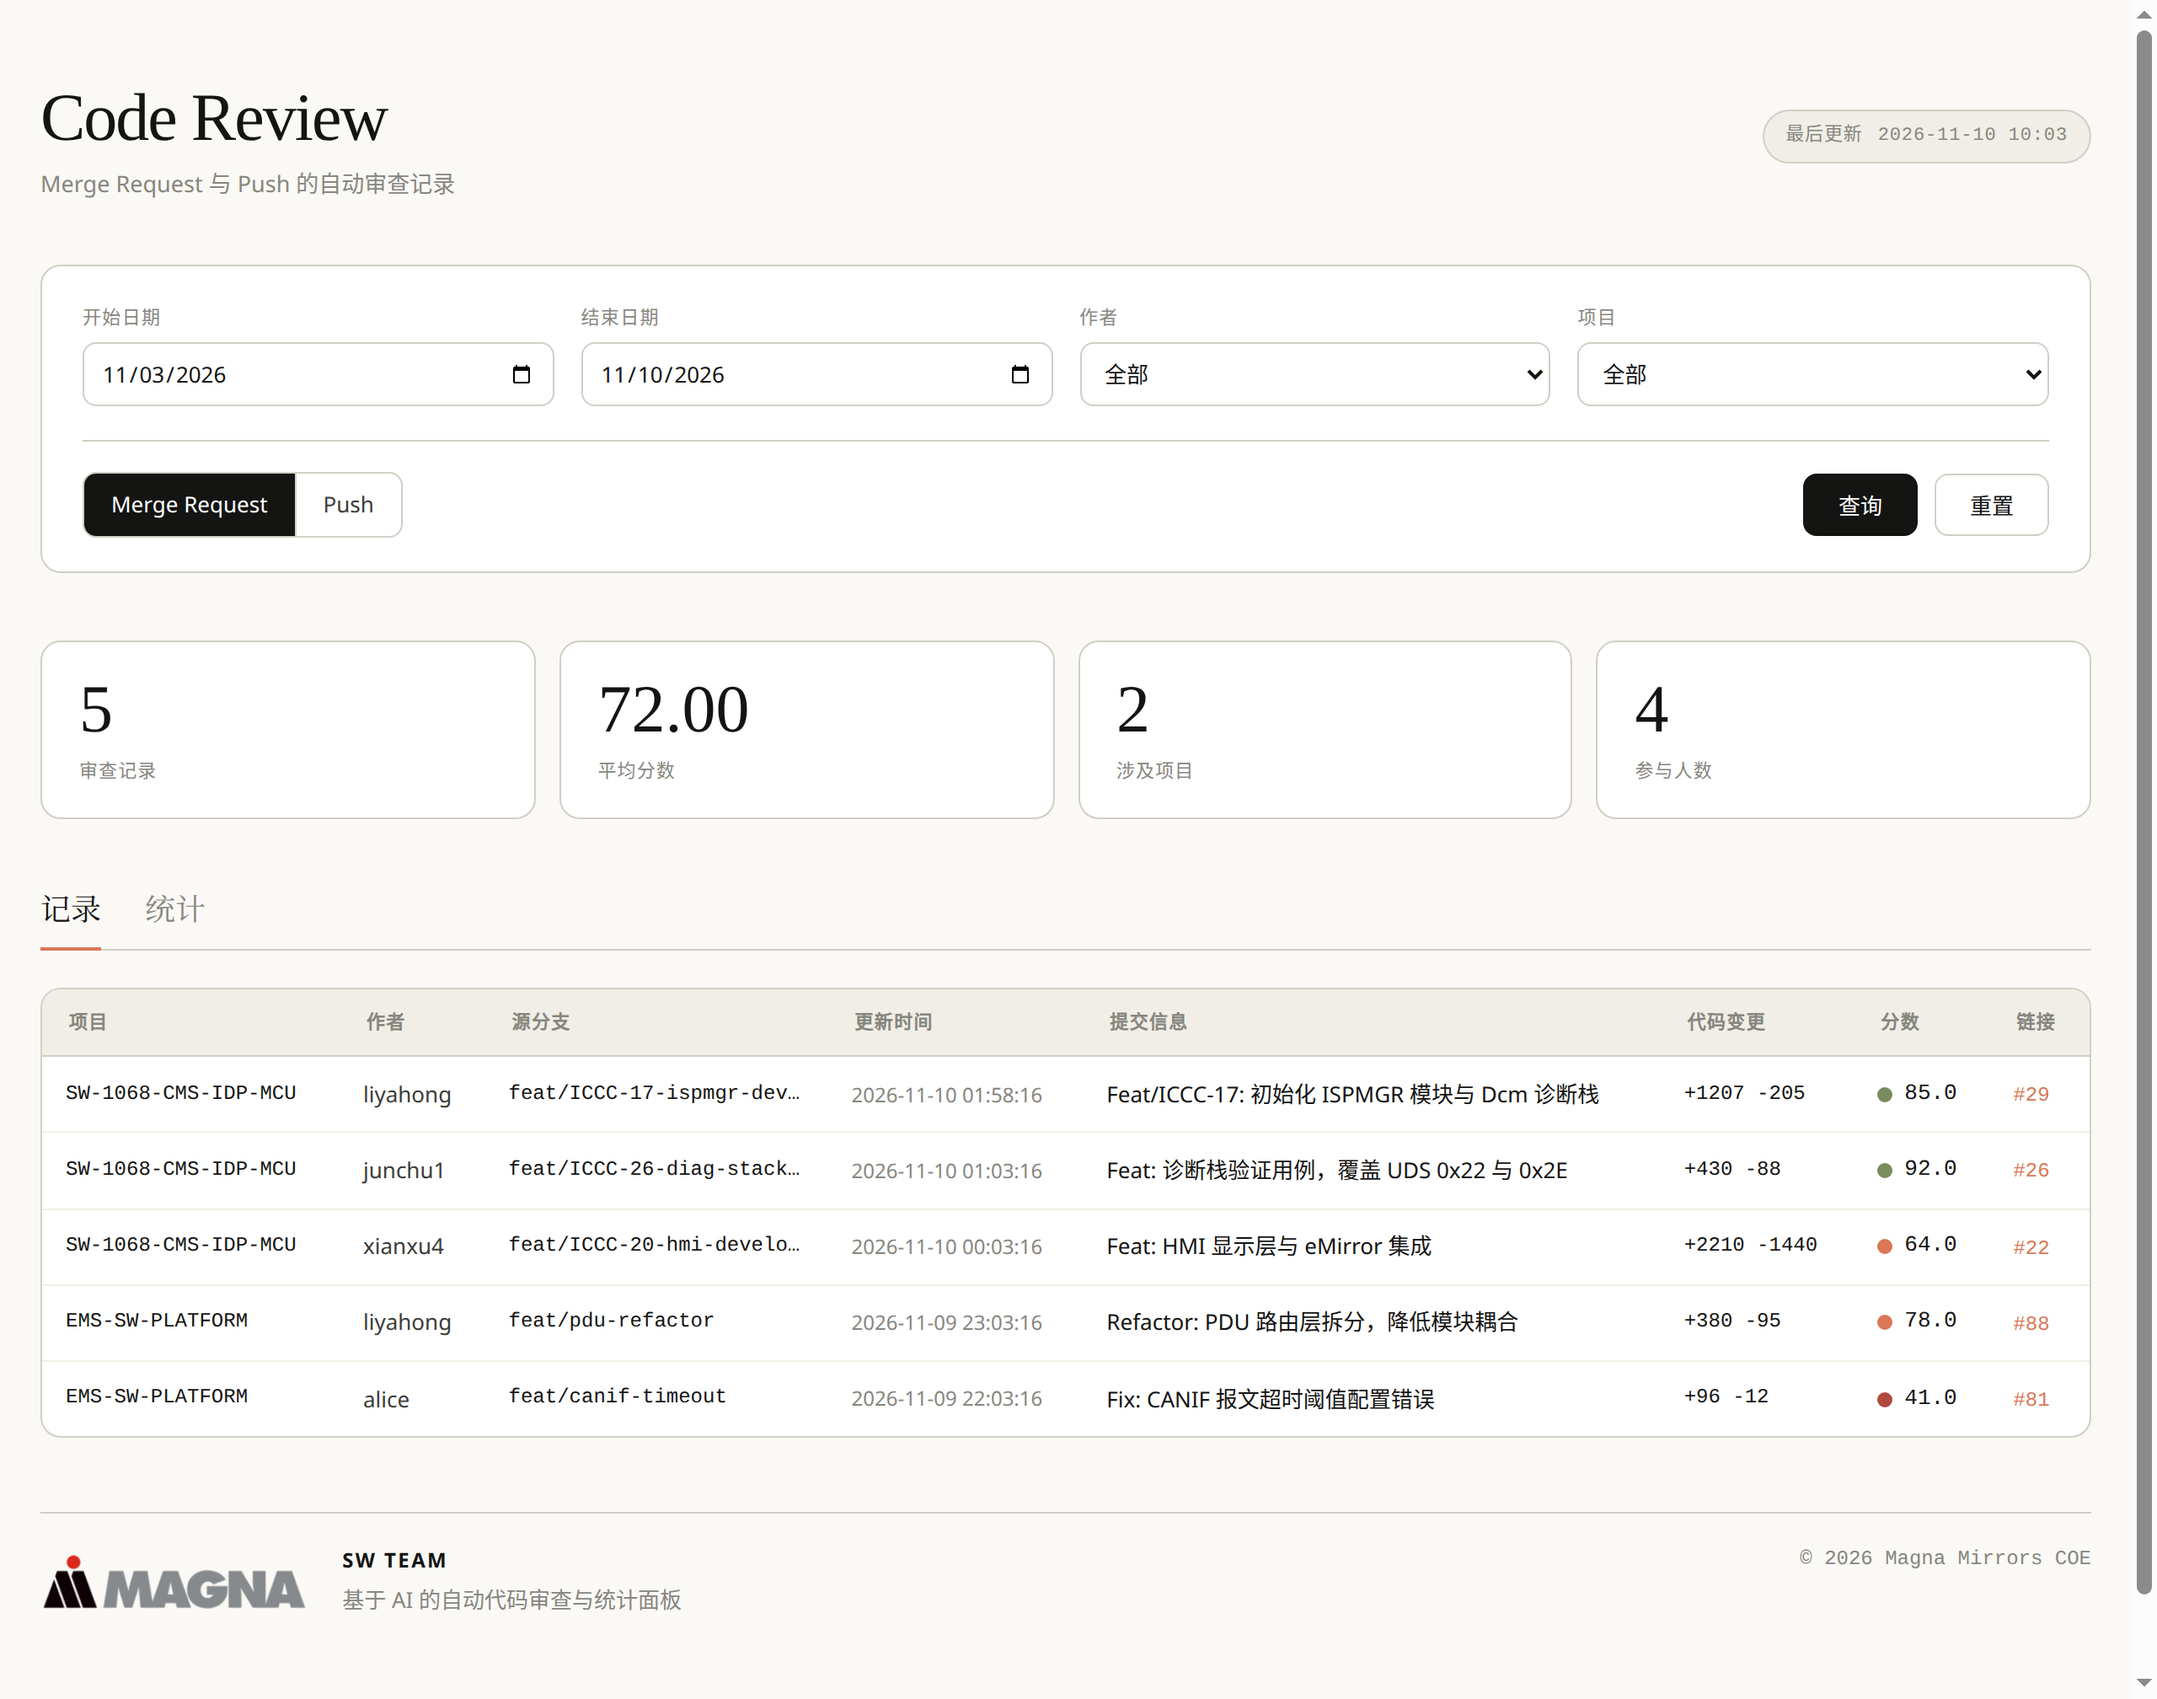
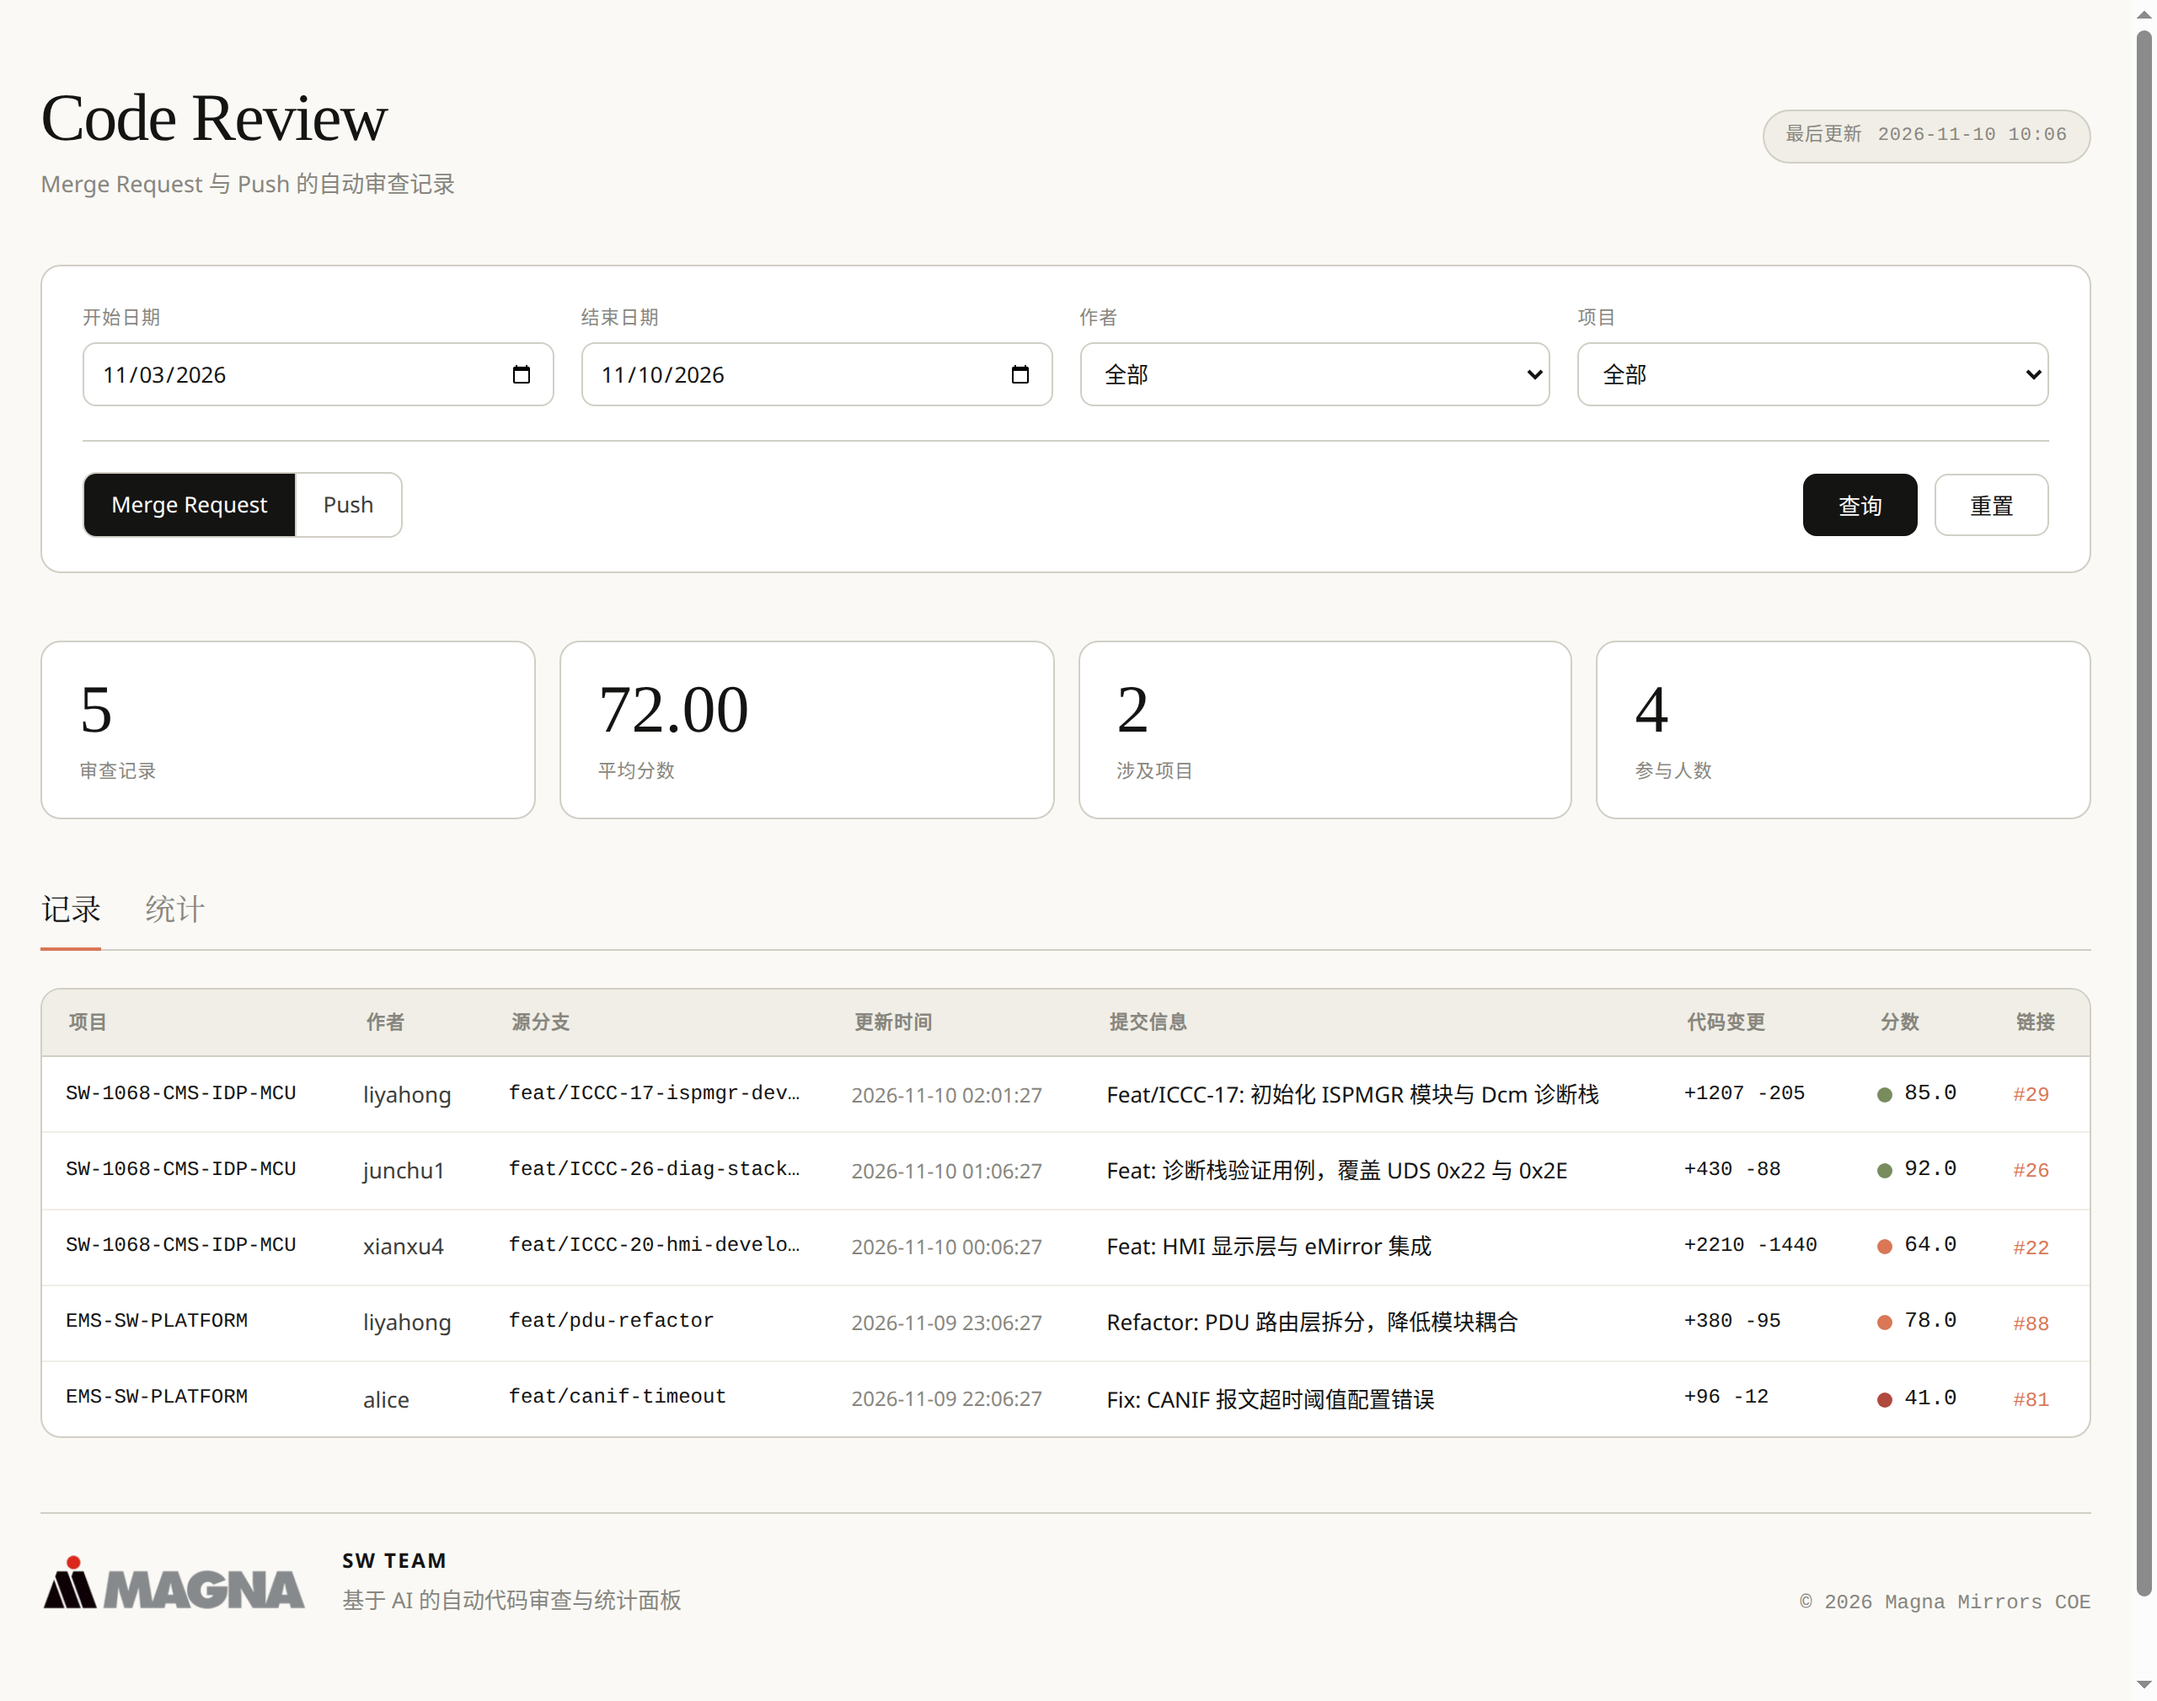
fix: baseline-align the footer copyright with the description line

diff --git a/web/index.html b/web/index.html
@@ -460,15 +460,18 @@ td.branch { max-width: 190px; overflow: hidden; text-overflow: ellipsis; white-s
   border-top: var(--hairline);
 }
 
-/* 页脚：logo 在左，署名与版权在右，描述独占第二行。
-   用 grid 而不是 flex，是为了让描述行的左边缘跟「SW Team」对齐。 */
+/* 页脚：logo 在左并跨两行，署名和描述在中间，版权在右下角。
+   用 grid 而不是 flex，是为了让描述行的左边缘跟「SW Team」对齐，
+   并让版权跟描述共用一条基线——版权是「最后一行」的元素，
+   放在顶部会跟 SW TEAM 看成平级，而它们并不是平级关系。
+   align-items:baseline 让同一行里的文字按基线对齐，而不是按顶边。 */
 .page-footer {
   display: grid;
   grid-template-columns: auto minmax(0, 1fr) auto;
   grid-template-areas:
-    "logo team copy"
-    "logo desc desc";
-  align-items: start;
+    "logo team ."
+    "logo desc copy";
+  align-items: baseline;
   column-gap: 20px;
   row-gap: 4px;
 }
